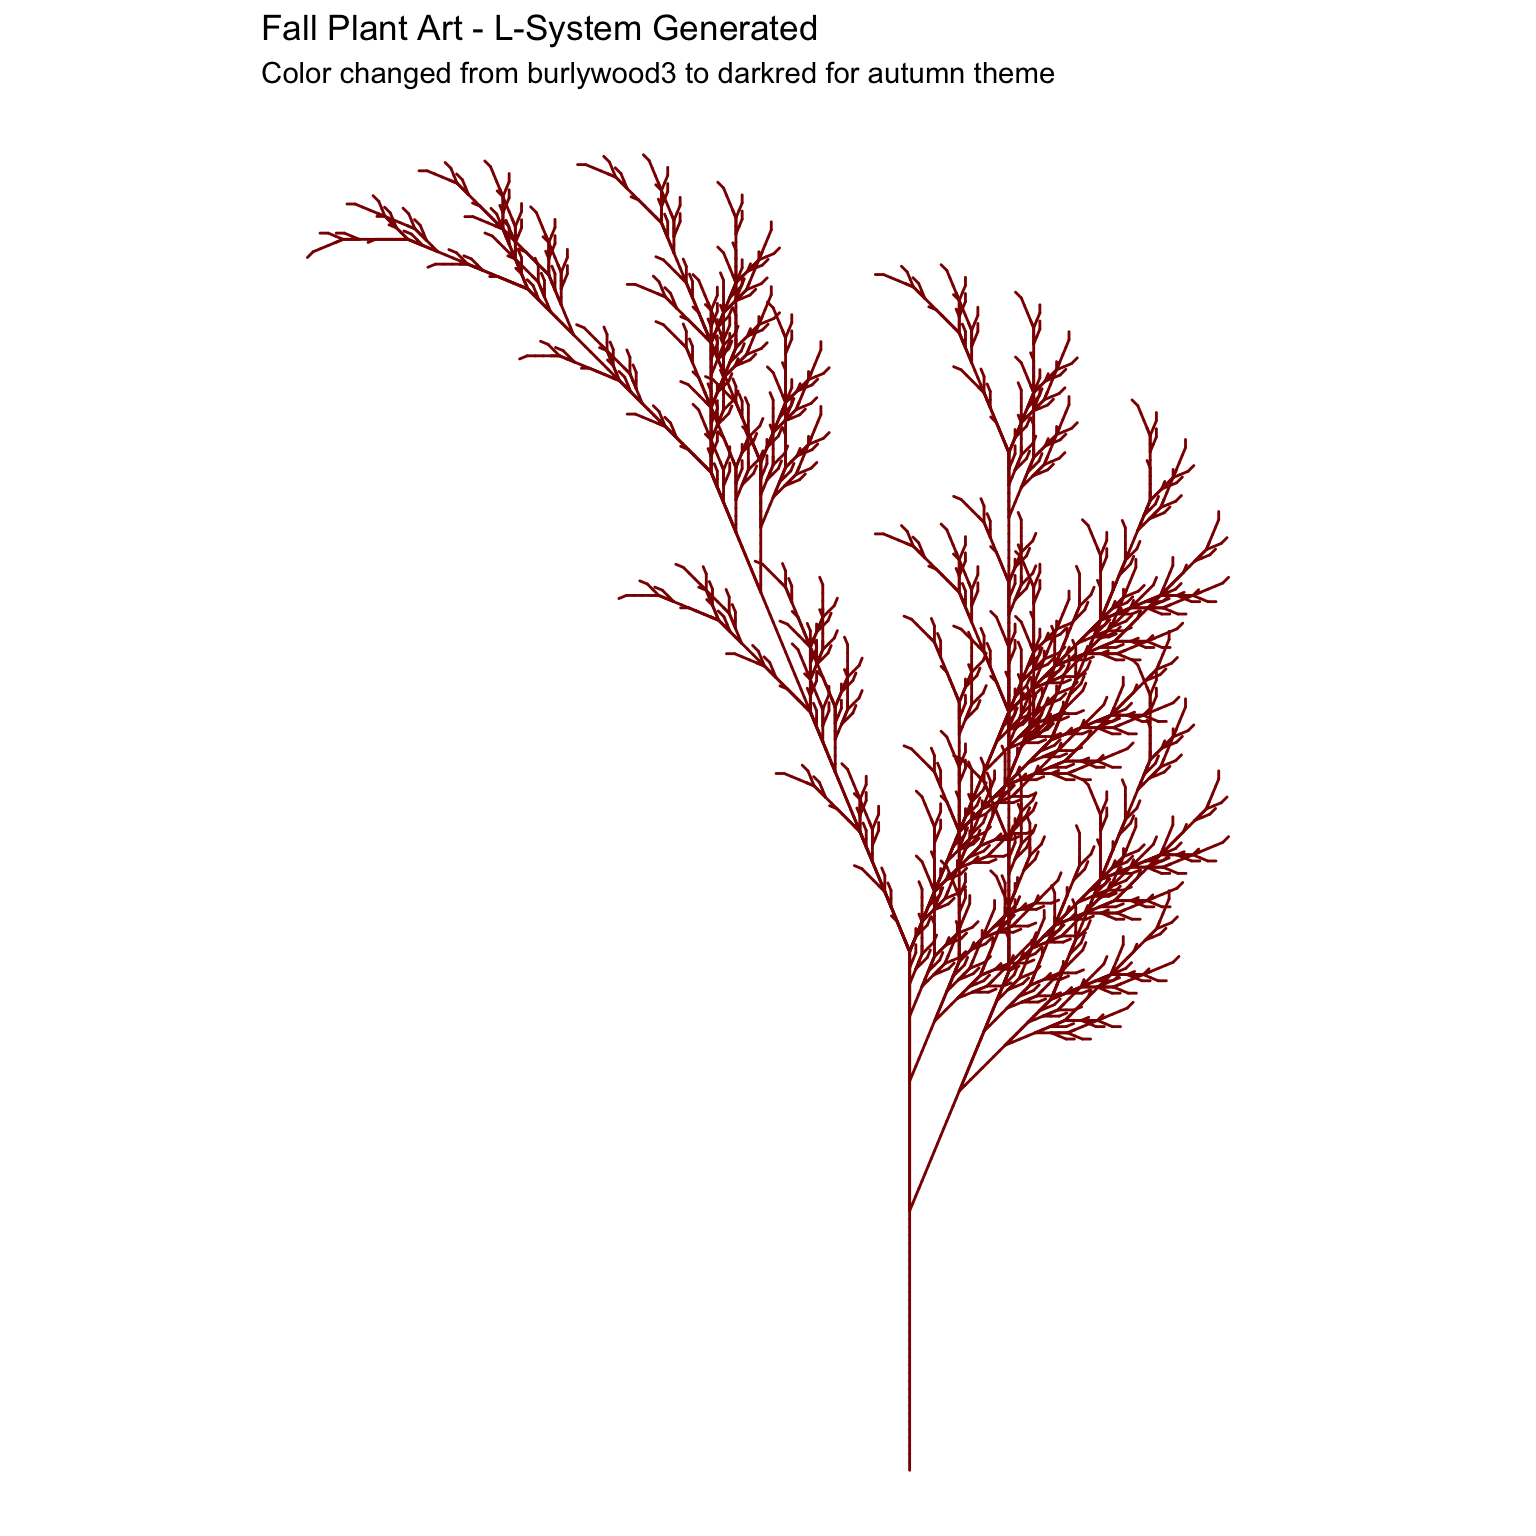
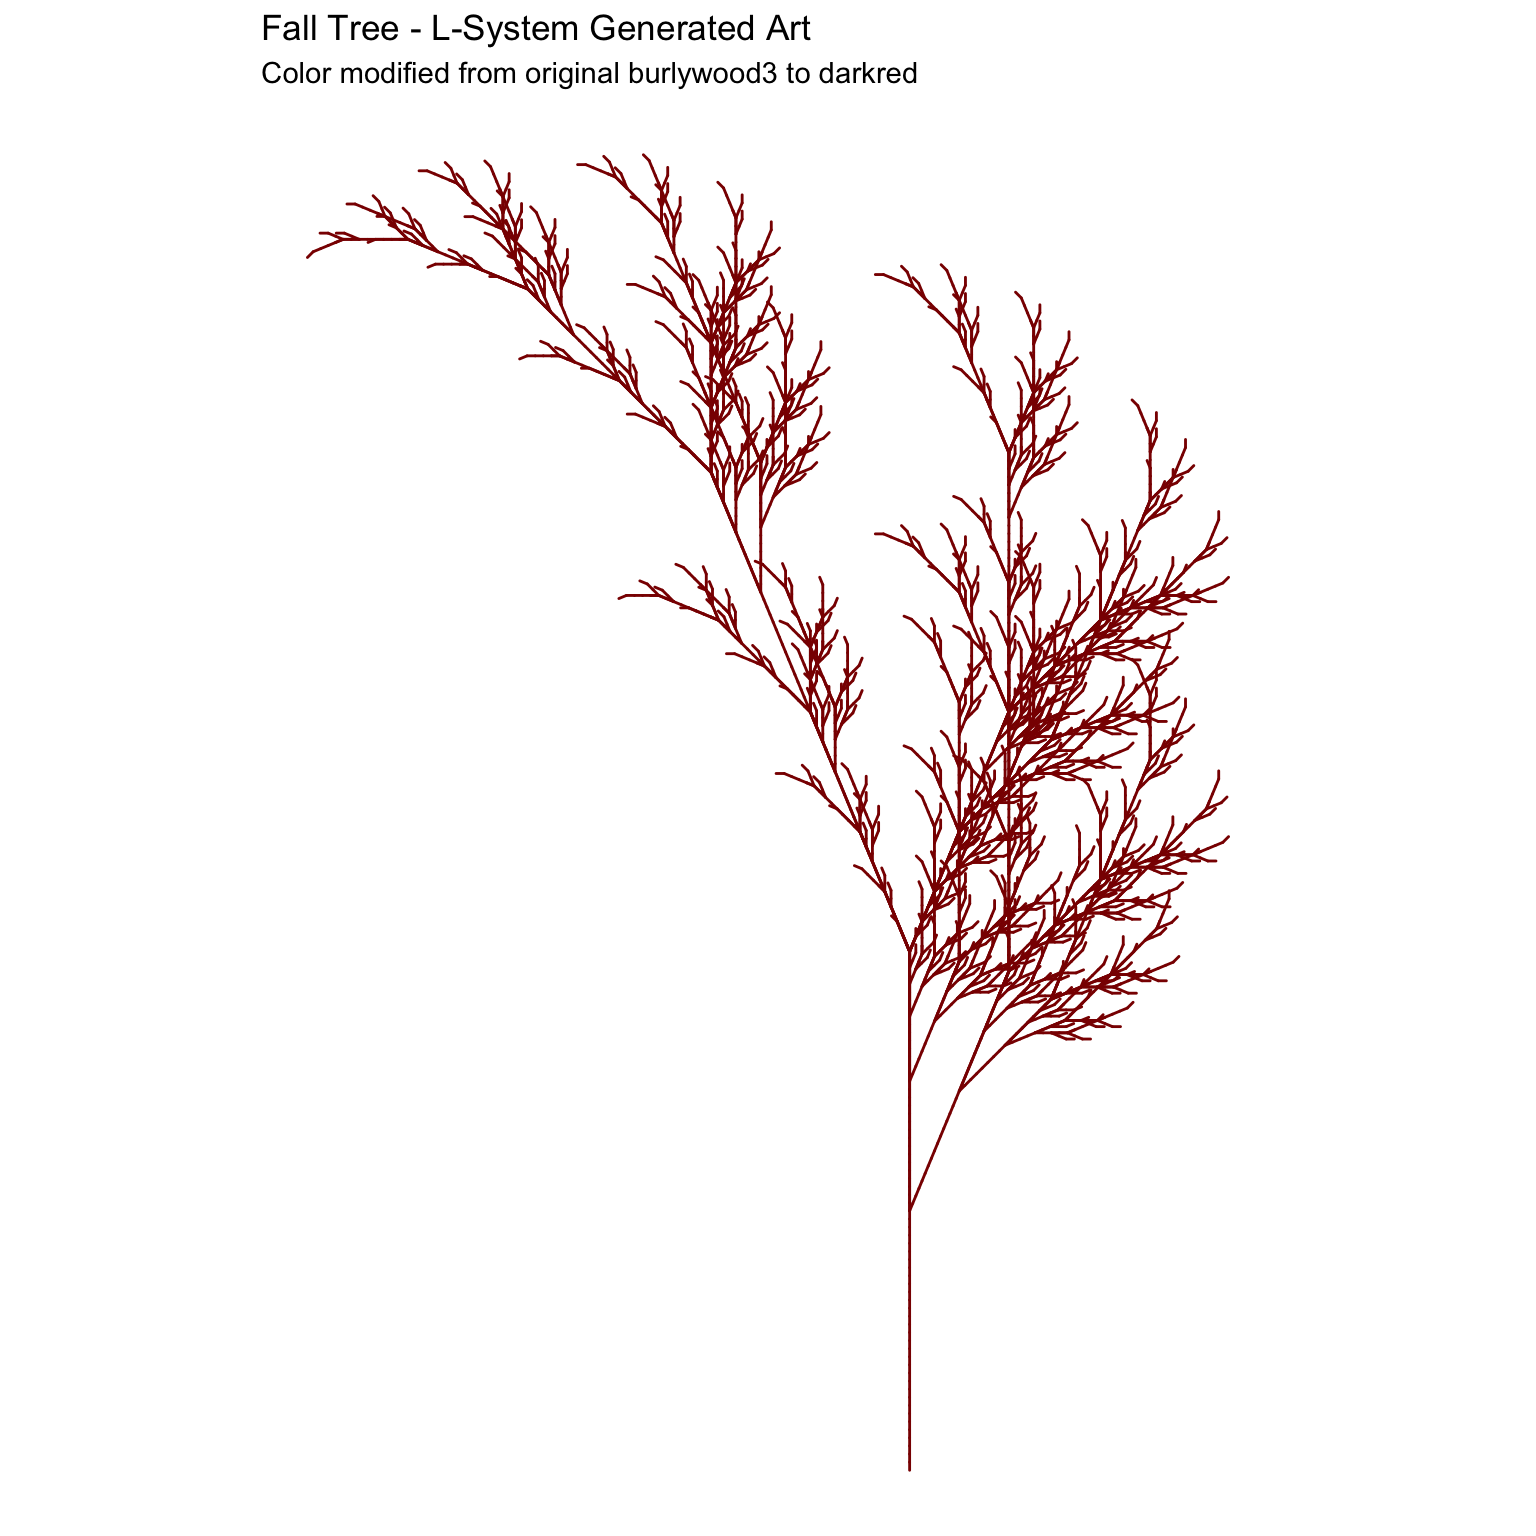
Complete Assignment 1 with all three questions

Changed region(s): [[0.2188, 0.0, 0.6875, 0.0625]]

diff --git a/Data_Visualization/Assignments/Assignment1.html b/Data_Visualization/Assignments/Assignment1.html
@@ -201,9 +201,9 @@ pre > code.sourceCode > span > a:first-child::before { text-decoration: underlin
 <p>This demonstrates why <strong>visualization is essential</strong> for understanding data patterns that summary statistics alone cannot reveal.</p>
 </section>
 </section>
-<section id="changing-color-in-fall-script" class="level2">
-<h2 class="anchored" data-anchor-id="changing-color-in-fall-script">2. Changing Color in Fall Script</h2>
-<p>This section demonstrates generative art using L-systems to create plant-like structures. The original script uses “burlywood3” color, but we can experiment with different fall colors to create various artistic effects.</p>
+<section id="fall-tree-color-change" class="level2">
+<h2 class="anchored" data-anchor-id="fall-tree-color-change">2. Fall Tree Color Change</h2>
+<p>This section demonstrates generative art using L-systems to create plant-like structures. I experimented with the color scheme in the original Fall script to explore different autumn themes.</p>
 <section id="setup-required-packages" class="level3">
 <h3 class="anchored" data-anchor-id="setup-required-packages">Setup Required Packages</h3>
 </section>
@@ -257,29 +257,29 @@ pre > code.sourceCode > span > a:first-child::before { text-decoration: underlin
 <span id="cb3-45"><a href="#cb3-45" aria-hidden="true" tabindex="-1"></a>  }</span>
 <span id="cb3-46"><a href="#cb3-46" aria-hidden="true" tabindex="-1"></a>}</span>
 <span id="cb3-47"><a href="#cb3-47" aria-hidden="true" tabindex="-1"></a></span>
-<span id="cb3-48"><a href="#cb3-48" aria-hidden="true" tabindex="-1"></a><span class="co"># Create the plot with modified fall color</span></span>
+<span id="cb3-48"><a href="#cb3-48" aria-hidden="true" tabindex="-1"></a><span class="co"># Create the plot with my chosen fall color</span></span>
 <span id="cb3-49"><a href="#cb3-49" aria-hidden="true" tabindex="-1"></a><span class="fu">ggplot</span>() <span class="sc">+</span></span>
 <span id="cb3-50"><a href="#cb3-50" aria-hidden="true" tabindex="-1"></a>  <span class="fu">geom_segment</span>(<span class="fu">aes</span>(<span class="at">x =</span> x1, <span class="at">y =</span> y1, <span class="at">xend =</span> x2, <span class="at">yend =</span> y2),</span>
 <span id="cb3-51"><a href="#cb3-51" aria-hidden="true" tabindex="-1"></a>               <span class="at">lineend =</span> <span class="st">"round"</span>,</span>
-<span id="cb3-52"><a href="#cb3-52" aria-hidden="true" tabindex="-1"></a>               <span class="at">color=</span><span class="st">"darkred"</span>, <span class="co"># Changed from original "burlywood3" to "darkred"</span></span>
+<span id="cb3-52"><a href="#cb3-52" aria-hidden="true" tabindex="-1"></a>               <span class="at">color=</span><span class="st">"darkred"</span>, <span class="co"># My color choice after experimenting with different options</span></span>
 <span id="cb3-53"><a href="#cb3-53" aria-hidden="true" tabindex="-1"></a>               <span class="at">data=</span><span class="fu">na.omit</span>(points)) <span class="sc">+</span></span>
 <span id="cb3-54"><a href="#cb3-54" aria-hidden="true" tabindex="-1"></a>  <span class="fu">coord_fixed</span>(<span class="at">ratio =</span> <span class="dv">1</span>) <span class="sc">+</span></span>
 <span id="cb3-55"><a href="#cb3-55" aria-hidden="true" tabindex="-1"></a>  <span class="fu">theme_void</span>() <span class="sc">+</span></span>
-<span id="cb3-56"><a href="#cb3-56" aria-hidden="true" tabindex="-1"></a>  <span class="fu">labs</span>(<span class="at">title =</span> <span class="st">"Fall Plant Art - L-System Generated"</span>,</span>
-<span id="cb3-57"><a href="#cb3-57" aria-hidden="true" tabindex="-1"></a>       <span class="at">subtitle =</span> <span class="st">"Color changed from burlywood3 to darkred for autumn theme"</span>)</span></code></pre></div><button title="Copy to Clipboard" class="code-copy-button"><i class="bi"></i></button></div>
+<span id="cb3-56"><a href="#cb3-56" aria-hidden="true" tabindex="-1"></a>  <span class="fu">labs</span>(<span class="at">title =</span> <span class="st">"Fall Tree - L-System Generated Art"</span>,</span>
+<span id="cb3-57"><a href="#cb3-57" aria-hidden="true" tabindex="-1"></a>       <span class="at">subtitle =</span> <span class="st">"Color modified from original burlywood3 to darkred"</span>)</span></code></pre></div><button title="Copy to Clipboard" class="code-copy-button"><i class="bi"></i></button></div>
 <div class="cell-output-display">
 <div class="quarto-figure quarto-figure-center">
 <figure class="figure">
 <p><img src="Assignment1_files/figure-html/fall-art-1.png" class="img-fluid figure-img" width="768"></p>
-<figcaption>Generative plant art using L-systems - Modified with different fall colors</figcaption>
+<figcaption>Fall tree generated using L-systems with modified color scheme</figcaption>
 </figure>
 </div>
 </div>
 </div>
 </section>
-<section id="color-experiment-notes" class="level3">
-<h3 class="anchored" data-anchor-id="color-experiment-notes">Color Experiment Notes</h3>
-<p>The original script used <code>color="burlywood3"</code> which creates a tan/brown appearance. For this fall-themed version, I changed it to <code>color="darkred"</code> to evoke autumn foliage. Other fall color options you could experiment with include:</p>
+<section id="my-color-experimentation-process" class="level3">
+<h3 class="anchored" data-anchor-id="my-color-experimentation-process">My Color Experimentation Process</h3>
+<p>I experimented with several fall color options before settling on <code>darkred</code>. The original script used <code>color="burlywood3"</code> which creates a tan/brown appearance. During my experimentation, I tested:</p>
 <ul>
 <li><code>"orange"</code> - Bright autumn orange</li>
 <li><code>"goldenrod"</code> - Golden yellow fall color<br>
@@ -288,14 +288,51 @@ pre > code.sourceCode > span > a:first-child::before { text-decoration: underlin
 <li><code>"firebrick"</code> - Deep red</li>
 <li><code>"chocolate"</code> - Warm brown</li>
 </ul>
-<p>The L-system uses rules to recursively generate a tree-like structure, creating organic, plant-like patterns through mathematical iteration.</p>
+<p>After testing these options, I chose <code>"darkred"</code> because it best captures the deep, rich colors of autumn foliage and creates a striking visual contrast against the white background. The L-system algorithm uses mathematical rules to recursively generate tree-like structures, creating organic, plant-like patterns through iterative growth.</p>
 </section>
 </section>
 <section id="critique-of-plot-design-nathan-yau-principles" class="level2">
 <h2 class="anchored" data-anchor-id="critique-of-plot-design-nathan-yau-principles">3. Critique of Plot Design (Nathan Yau Principles)</h2>
-<p><em>[This section will be completed in the next iteration]</em></p>
+<p>The plot below demonstrates several visualization design issues that violate key principles emphasized by Nathan Yau about creating clear, effective data visualizations.</p>
+<div class="quarto-figure quarto-figure-center">
+<figure class="figure">
+<p><img src="images/plot_critique.png" class="img-fluid figure-img"></p>
+<figcaption>Problematic visualization with multiple design issues</figcaption>
+</figure>
+</div>
+<section id="analysis-of-design-problems" class="level3">
+<h3 class="anchored" data-anchor-id="analysis-of-design-problems">Analysis of Design Problems</h3>
+<p>This plot tries to show too many things at once—different contrasts, shapes, colors, and line styles—making it cluttered and hard to read. As Nathan Yau emphasizes, <strong>a good visualization should highlight the story clearly</strong>, but here the message is buried under visual noise.</p>
+<section id="specific-issues-identified" class="level4">
+<h4 class="anchored" data-anchor-id="specific-issues-identified">Specific Issues Identified:</h4>
+<p><strong>1. Visual Overload</strong> - Too many different contrasts, shapes, colors, and line styles - Multiple visual elements competing for attention - No clear hierarchy to guide the reader’s eye</p>
+<p><strong>2. Crowded Layout</strong> - Long inline labels crowd the chart space - Poor use of white space - Difficult to distinguish between different data categories</p>
+<p><strong>3. Weak Reference Points</strong> - The zero line (a key reference point) is not emphasized enough - Important benchmarks are visually de-emphasized - Baseline comparisons are difficult to make</p>
+</section>
+<section id="recommended-design-improvements" class="level4">
+<h4 class="anchored" data-anchor-id="recommended-design-improvements">Recommended Design Improvements:</h4>
+<p>Based on Nathan Yau’s visualization principles, a cleaner design would:</p>
+<ul>
+<li><strong>Reduce comparisons per plot</strong> - Simplify to focus on the most important message</li>
+<li><strong>Use consistent symbols</strong> - Establish a clear visual language throughout</li>
+<li><strong>Move labels to a legend</strong> - Free up chart space and reduce visual clutter</li>
+<li><strong>Highlight the reference line</strong> - Make the zero line or other key benchmarks more prominent</li>
+<li><strong>Establish visual hierarchy</strong> - Use size, color, and positioning strategically</li>
+</ul>
+</section>
+</section>
+<section id="design-principles-applied" class="level3">
+<h3 class="anchored" data-anchor-id="design-principles-applied">Design Principles Applied:</h3>
+<ol type="1">
+<li><strong>Clarity over complexity</strong> - Simplify to emphasize the key message</li>
+<li><strong>Consistent visual language</strong> - Use uniform symbols and styling</li>
+<li><strong>Strategic emphasis</strong> - Highlight important reference points</li>
+<li><strong>Effective use of space</strong> - Reduce clutter through better organization</li>
+</ol>
+<p>These improvements would make the main story about winners, losers, and economic perceptions much easier to see and understand, following Nathan Yau’s guidance that effective visualization should always prioritize the reader’s comprehension over visual complexity.</p>
 
 
+</section>
 </section>
 
 </main> <!-- /main -->
